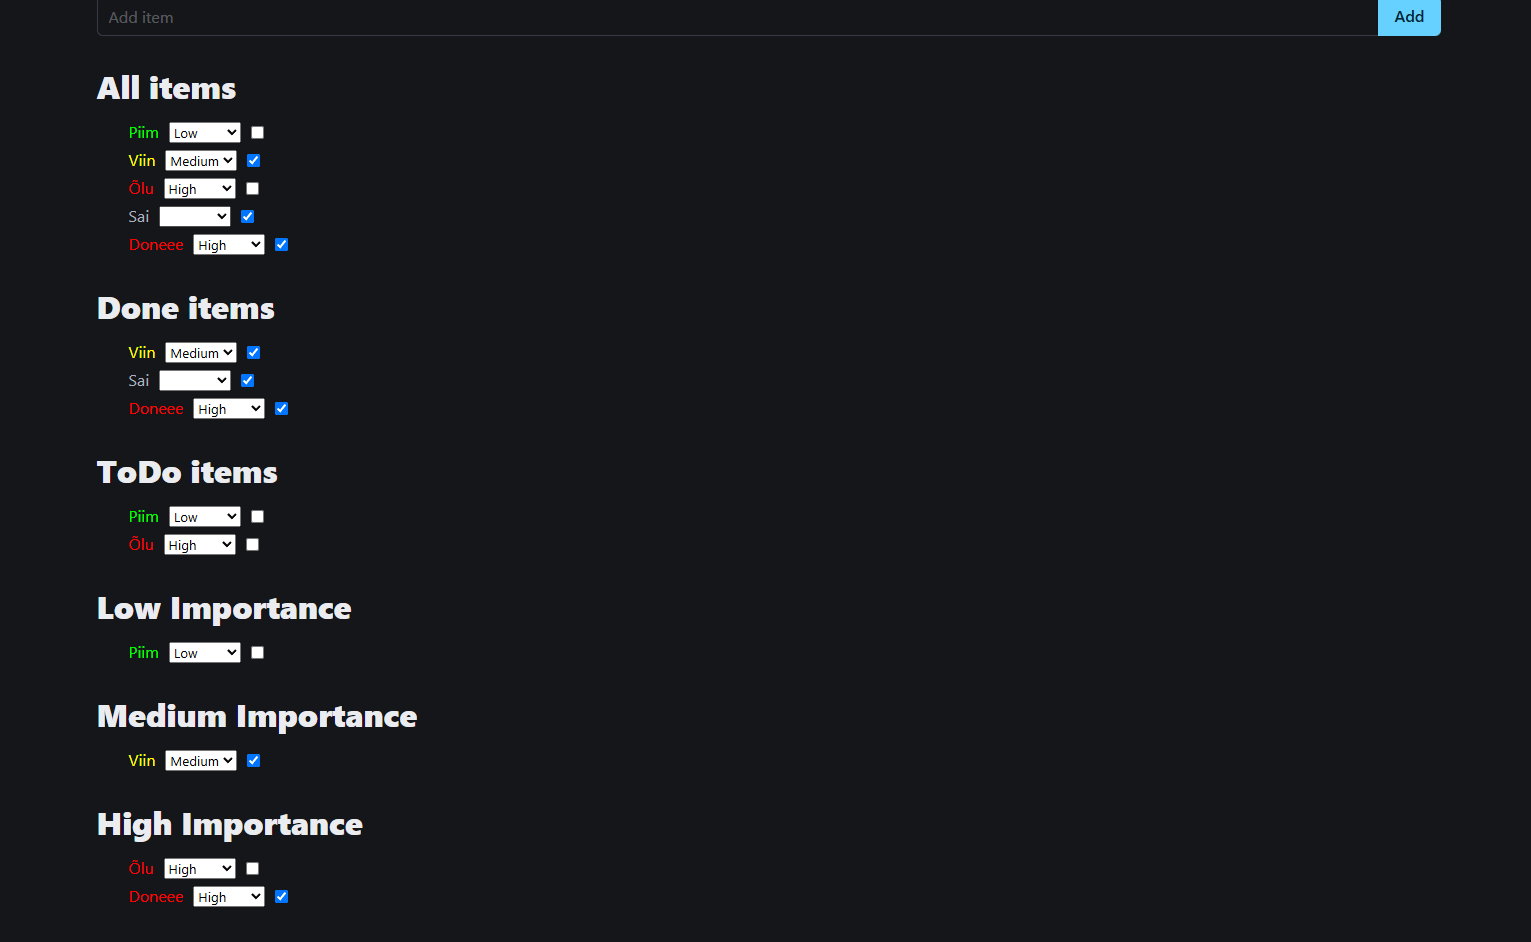
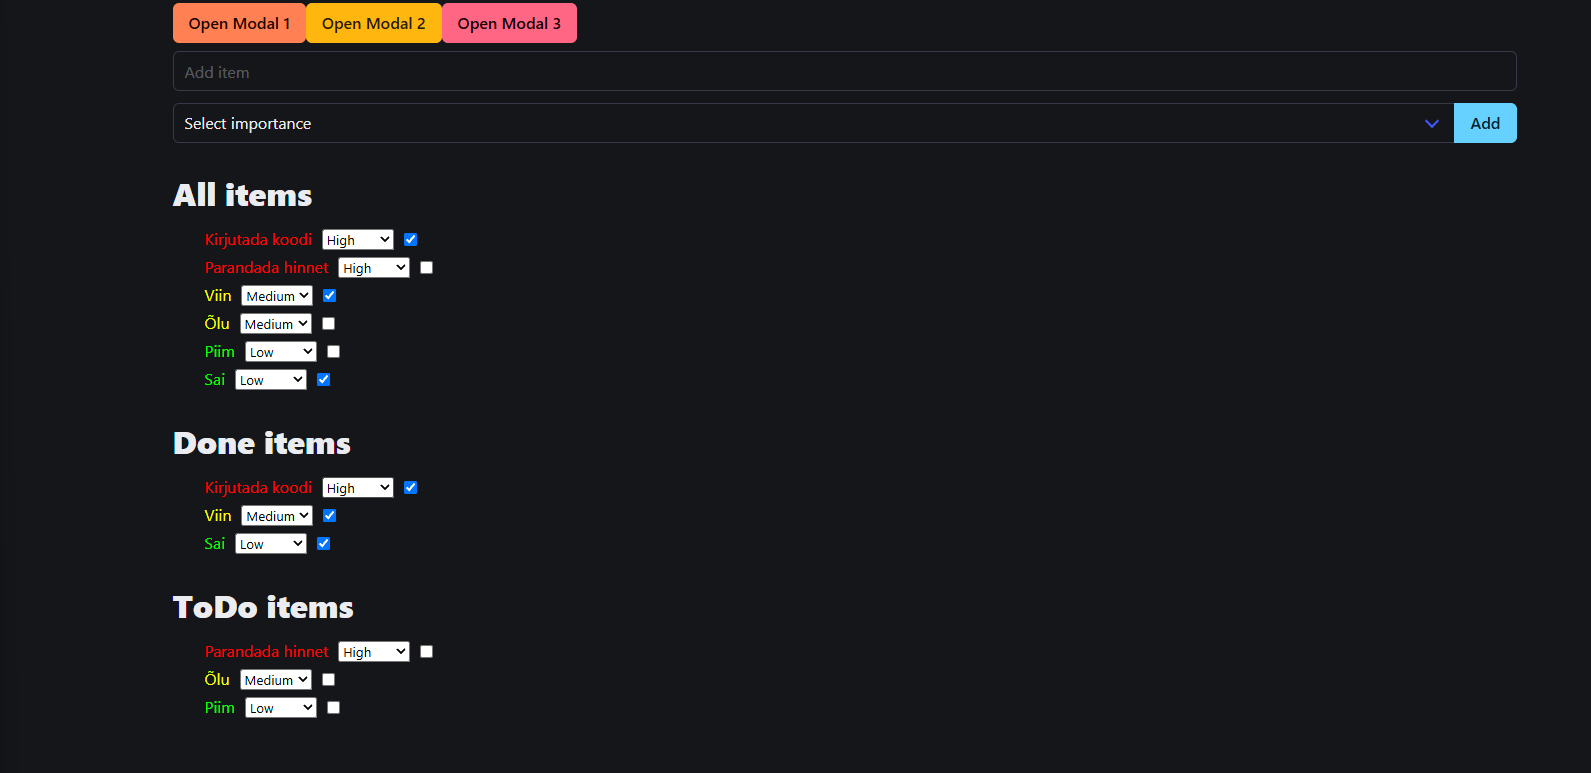
Fix ToDo list importance

diff --git a/src/pages/ToDo.vue b/src/pages/ToDo.vue
@@ -3,54 +3,70 @@ import { computed, ref } from 'vue';
 import ItemList from '../components/ItemList.vue';
 
 let message = ref('');
+let newImportance = ref('');
 let i = 1;
+
 let items = ref([
-    {id: i++, text: 'Piim', isDone: false, importance: ''},
-    {id: i++, text: 'Viin', isDone: true, importance: ''},
-    {id: i++, text: 'Õlu', isDone: false, importance: ''},
-    {id: i++, text: 'Sai', isDone: true, importance: ''},
+    { id: i++, text: 'Piim', isDone: false, importance: 'low' },
+    { id: i++, text: 'Viin', isDone: true, importance: 'high' },
+    { id: i++, text: 'Õlu', isDone: false, importance: 'medium' },
+    { id: i++, text: 'Sai', isDone: true, importance: 'low' },
 ]);
 
-function add(){
-  if(message.value.trim() !== '') {
-    items.value.push({
-        id: i++,
-        text: message.value.trim(), 
-        isDone: false,
-        importance:""
-    });
-  }
-
-  message.value = '';
+function add() {
+    if (message.value.trim() !== '' && newImportance.value !== '') {
+        items.value.push({ id: i++, text: message.value.trim(), isDone: false, importance: newImportance.value });
+        message.value = '';
+        newImportance.value = '';
+    }
 }
 
-let doneItems = computed(() => items.value.filter(item => item.isDone));
-let toDoItems = computed(() => items.value.filter(item => !item.isDone));
-let LowImportance = computed(() => items.value.filter(item => item.importance === 'low'));
-let MediumImportance = computed(() => items.value.filter(item => item.importance === 'medium'));
-let HighImportance = computed(() => items.value.filter(item => item.importance === 'high'));
+const importanceOrder = { high: 3, medium: 2, low: 1 };
+
+let sortedItems = computed(() =>
+    [...items.value].sort(
+        (itemA, itemB) =>
+            importanceOrder[itemB.importance] -
+            importanceOrder[itemA.importance]
+    )
+);
+
+let doneItems = computed(() =>
+    sortedItems.value.filter(item => item.isDone)
+);
+
+let toDoItems = computed(() =>
+    sortedItems.value.filter(item => !item.isDone)
+);
 </script>
 
 <template>
     <div class="container content mt-2">
-        <div class="field has-addons">
-            <div class="control is-expanded">
-                <input @keydown.enter="add" v-model="message" class="input" type="text" placeholder="Add item">
-            </div>
+        <div class="field">
             <div class="control">
-                <button @click="add" class="button is-info">
-                    Add
-                </button>
+                <input v-model="message" @keydown.enter="add" class="input" type="text" placeholder="Add item">
             </div>
         </div>
-        
-        <ItemList :items="items" title="All items"></ItemList>
-        <ItemList :items="doneItems" title="Done items"></ItemList>
-        <ItemList :items="toDoItems" title="ToDo items"></ItemList>
-        <ItemList :items="LowImportance" title="Low Importance"></ItemList>
-        <ItemList :items="MediumImportance" title="Medium Importance"></ItemList>
-        <ItemList :items="HighImportance" title="High Importance"></ItemList>
+
+        <div class="field has-addons">
+            <div class="control is-expanded">
+                <div class="select is-fullwidth">
+                    <select v-model="newImportance">
+                        <option value="" disabled>Select importance</option>
+                        <option value="low">Low</option>
+                        <option value="medium">Medium</option>
+                        <option value="high">High</option>
+                    </select>
+                </div>
+            </div>
+
+            <div class="control">
+                <button @click="add" class="button is-info">Add</button>
+            </div>
+        </div>
+
+        <ItemList :items="sortedItems" title="All items" />
+        <ItemList :items="doneItems" title="Done items" />
+        <ItemList :items="toDoItems" title="ToDo items" />
     </div>
 </template>
-
-<style lang="scss" scoped></style>

diff --git a/src/components/ItemList.vue b/src/components/ItemList.vue
@@ -1,12 +1,14 @@
 <script setup>
 defineProps(['items', 'title']);
 </script>
+
 <template>
     <h1>{{ title }}</h1>
+
     <ul>
-        <li v-for="item in items" :key="item.id" class="item">
-            <span :class="'importance-' + item.importance">
-            {{ item.text }}
+        <li v-for="item in items":key="item.id" class="todo-item">
+            <span :class="item.importance ? 'importance-' + item.importance: ''">
+                {{ item.text }}
             </span>
             <select v-model="item.importance">
                 <option value="low">Low</option>
@@ -17,7 +19,14 @@ defineProps(['items', 'title']);
         </li>
     </ul>
 </template>
+
 <style lang="scss" scoped>
+.todo-item {
+    display: flex;
+    align-items: center;
+    gap: 10px;
+}
+
 .importance {
     &-low {
         color: #00ff00;
@@ -30,10 +39,5 @@ defineProps(['items', 'title']);
     &-high {
         color: #ff0000;
     }
-}
-.item {
-    display: flex;
-    align-items: center;
-    gap: 10px;
 }
 </style>

diff --git a/src/App.vue b/src/App.vue
@@ -2,6 +2,7 @@
 import { ref } from 'vue';
 import Modal from './components/Modal.vue';
 import ImgModal from './components/ImgModal.vue';
+import ToDo from './pages/ToDo.vue'
 
 let modal1Active = ref(false);
 let modal2Active = ref(false);
@@ -20,5 +21,7 @@ let modal3Active = ref(false);
         <Modal :active="modal3Active" @close="modal3Active = false">
             <div class="box">I'm in a box.</div>
         </Modal>
+
+        <ToDo></ToDo>
     </div>
 </template>
